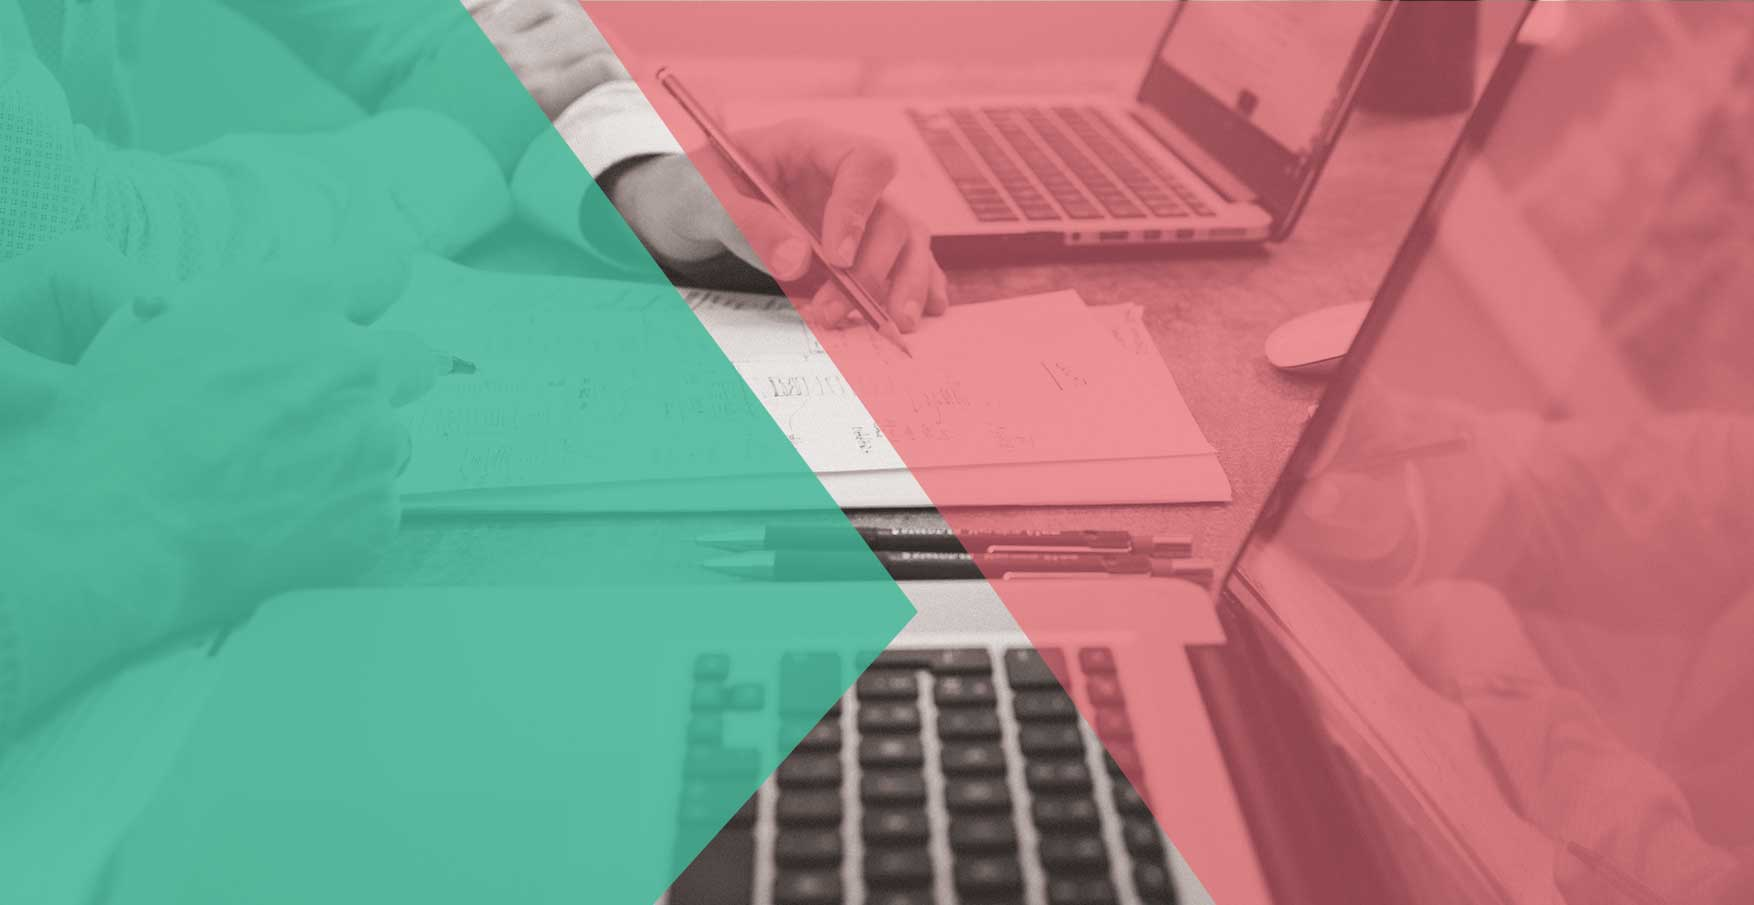
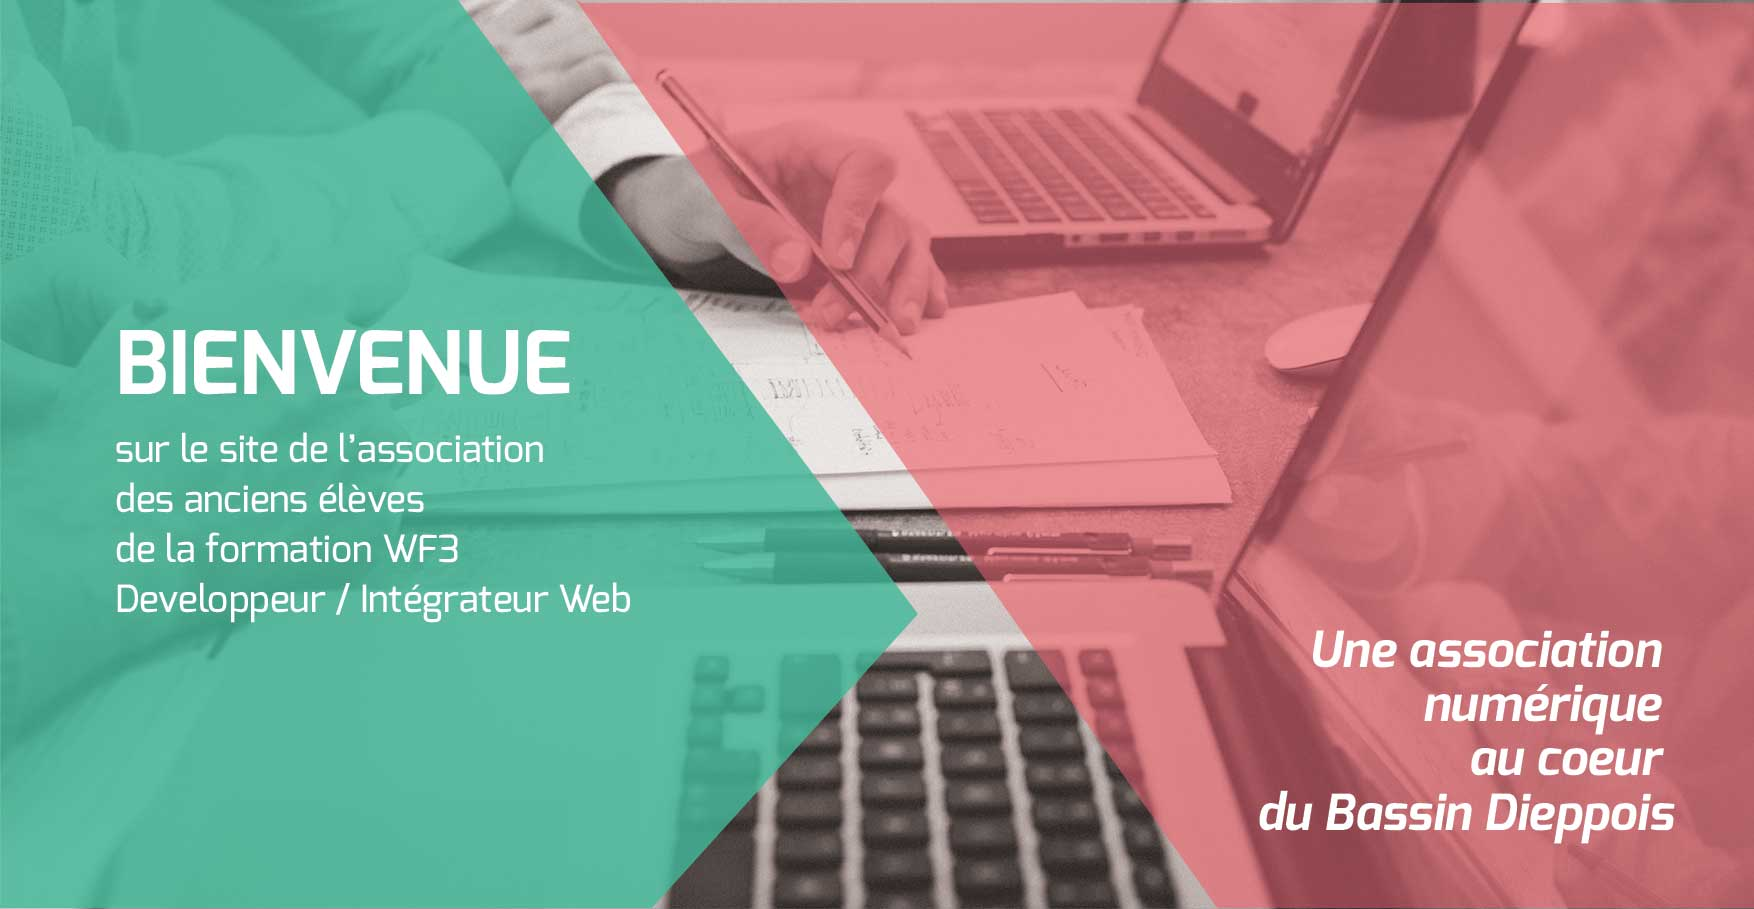
Ajout html + css (page index)

diff --git a/wp-content/themes/EchoPixels/css/mainstyle.css b/wp-content/themes/EchoPixels/css/mainstyle.css
@@ -68,6 +68,79 @@ header{
   font-size: 2.5em;
   float: right;
 }
+
+/* -----------------------------------------------
+  INDEX
+----------------------------------------------- */
+
+.banniere img{
+  width: 100%;
+}
+
+.bloc_bleu {
+  padding: 5em;
+  background-color : #273d4f;
+}
+
+.presentation {
+  width:100%;
+  background-color : #273d4f;
+  border: solid 20px #41bca0;
+  display: flex;
+  width: 100%;
+}
+
+.text_presentation {
+  padding: 1em;
+}
+
+.img_association img {
+
+}
+
+.text_presentation {
+  color: #41bca0;
+  font-size: 1.3em;
+}
+
+.bloc_blanc {
+  padding: 5em;
+}
+
+.wrapper {
+  width:100%;
+  display: flex;
+  align-items: center;
+}
+
+.wrapper h2 {
+  text-decoration: underline #41bca0;
+  font-size: 2.5em;
+}
+
+.wrapper p {
+  font-size: 1.7em;
+}
+
+.wrapper_gauche {
+  text-align: right;
+
+}
+
+.wrapper_droite {
+  text-align: left;
+}
+
+.bloc_bleu h4 {
+  color: #41bca0;
+  font-size: 3em;
+  text-align: center;
+}
+
+.bloc_bleu a {
+  text-align: center;
+}
+
 /* -----------------------------------------------
   Page membres
 ----------------------------------------------- */
